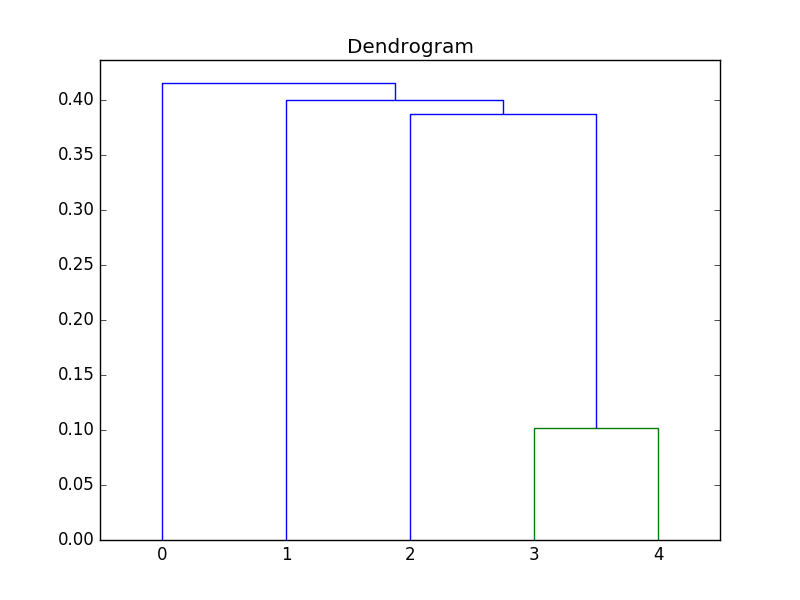
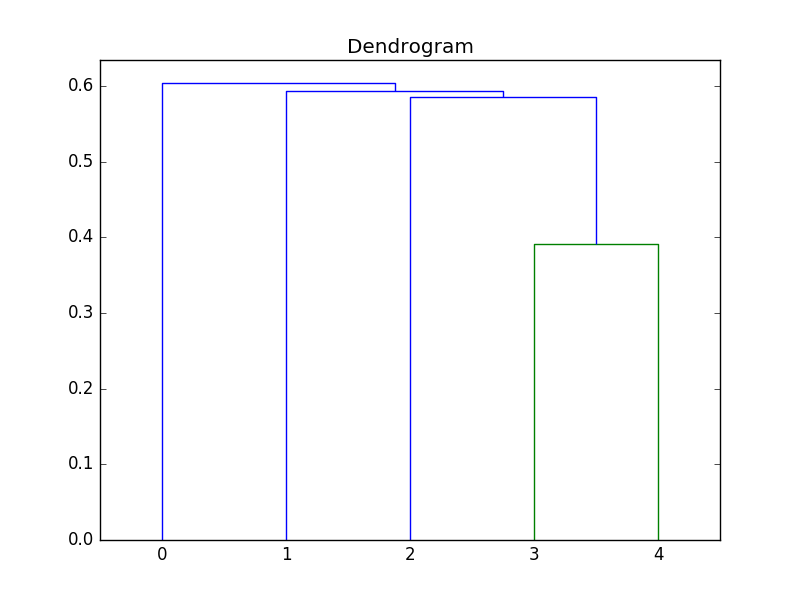
added linkage dendrogram func

diff --git a/Clingo Parser/AntlrClingo.py b/Clingo Parser/AntlrClingo.py
@@ -15,6 +15,9 @@ from sklearn.cluster import DBSCAN
 import matplotlib.pyplot as plt
 from scipy.cluster.hierarchy import dendrogram, linkage
 from scipy.spatial.distance import squareform
+from scipy.cluster.hierarchy import cophenet
+from scipy.spatial.distance import pdist
+
 
 
 ###################################################################
@@ -1408,7 +1411,7 @@ while query_db in ['y', 'yes', '1', 1]:
 
 ###########################################################################################
 
-def clustering(dist_matrix):
+def dbscan_clustering(dist_matrix):
 	db = DBSCAN(metric = 'precomputed')#, eps = 0.4, min_samples = 1)
 	labels = db.fit_predict(dist_matrix)
 	out_file.write('Cluster Labels: ' + str(labels) + '\n')
@@ -1444,11 +1447,24 @@ def clustering(dist_matrix):
 	plt.savefig('Mini Workflow/parser_output/clustering_output/' + str(project_name) + '/' + str(project_name) + '.png')
 	plt.figure()
 
-	# dists = squareform(dist_matrix)
-	# linkage_matrix = linkage(dists, "single")
-	# dendrogram(linkage_matrix, labels=[str(i) for i in range(len(dist_matrix))])
-	# plt.title("Dendrogram")
-	# plt.savefig('Mini Workflow/parser_output/clustering_output/' + str(project_name) + '/' + str(project_name) + '_dendrogram.png')
+	dists = squareform(dist_matrix)
+	linkage_matrix = linkage(dists, "single")
+	dendrogram(linkage_matrix, labels=[str(i) for i in range(len(dist_matrix))])
+	plt.title("Dendrogram")
+	plt.savefig('Mini Workflow/parser_output/clustering_output/' + str(project_name) + '/' + str(project_name) + '_dendrogram.png')
+
+
+def linkage_dendrogram(dist_matrix):
+	X = squareform(dist_matrix)
+	Z = linkage(X, 'ward')
+	#c, coph_dists = cophenet(Z, pdist(X))
+	plt.title('Hierarchical Clustering Dendrogram')
+	plt.xlabel('sample index')
+	plt.ylabel('distance')
+	dendrogram(Z, leaf_rotation=90., leaf_font_size=8.)
+	plt.savefig('Mini Workflow/parser_output/clustering_output/' + str(project_name) + '/' + str(project_name) + '_linkage_dendrogram.png')
+
+
 
 
 dist_matrix = np.zeros((len(pws),len(pws)))
@@ -1463,11 +1479,10 @@ for i in range(1, len(pws)+1):
 if len(pws) > 1:
 	if np.max(dist_matrix) != np.min(dist_matrix):
 		dist_matrix = (dist_matrix - np.min(dist_matrix))/(np.max(dist_matrix) - np.min(dist_matrix))
-	# for i in range(len(pws)): #NOTE: Need to fix a bug within Dist where dist(i,i) is not min
-	# 	dist_matrix[i][i] = 0
 	out_file.write(str(dist_matrix))
 	out_file.write('\n')
-	clustering(dist_matrix)
+	dbscan_clustering(dist_matrix)
+	linkage_dendrogram(dist_matrix)
 
 
 
